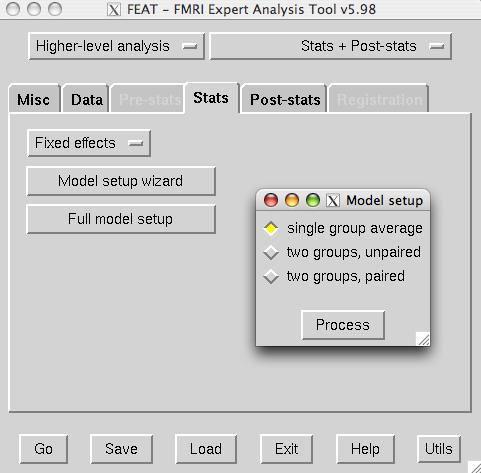
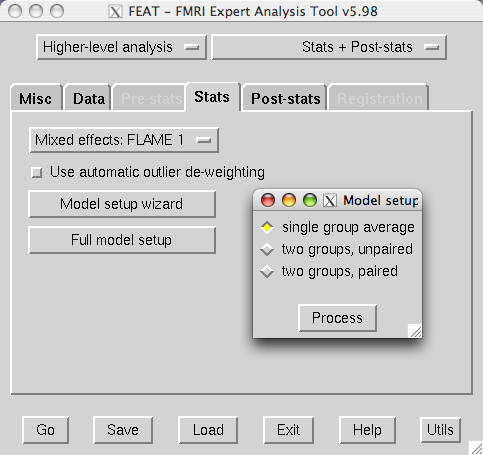
change fixed to mixed effects

Changed region(s): [[0.0, 0.0, 1.0, 1.0]]

diff --git a/doc/tutorial_thirdlevel/tutorial.rst b/doc/tutorial_thirdlevel/tutorial.rst
@@ -481,7 +481,7 @@ Go to the Stats tab.
 The Stats tab
 '''''''''''''
 
-Change the first option to 'Mixed Effects,' and then click "Model setup wizard". Leave it on the default option of "single group average", and click "Process".
+Change the first option to 'Fixed Effects,' and then click "Model setup wizard". Leave it on the default option of "single group average", and click "Process".
 
 .. image:: https://github.com/ntblab/neuropipe-support/raw/rc-0.3/doc/tutorial_thirdlevel/secondlevel-feat-stats.png
 
